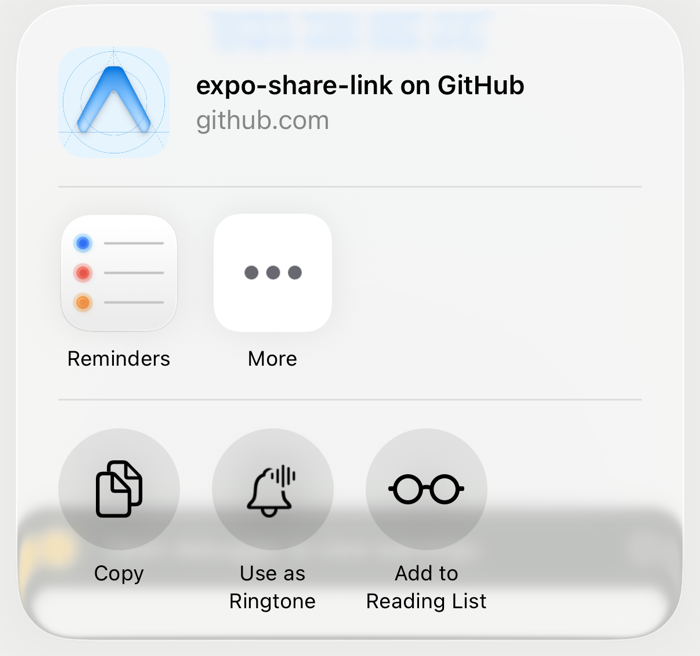
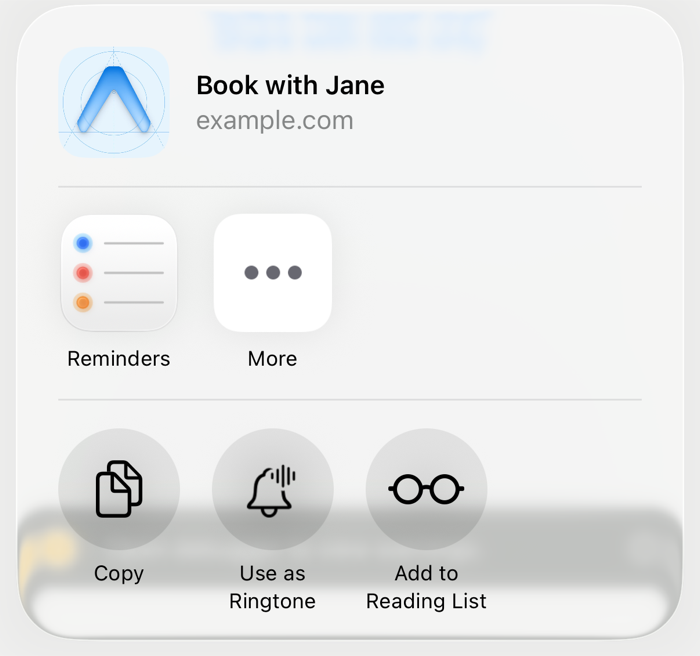
Use a neutral example link in the screenshots

Changed region(s): [[0.27, 0.0915, 0.75, 0.2134]]

diff --git a/example/App.tsx b/example/App.tsx
@@ -2,7 +2,7 @@ import { isAvailable, shareLink, type ShareLinkResult } from 'expo-share-link';
 import { useState } from 'react';
 import { Button, SafeAreaView, StyleSheet, Text, View } from 'react-native';
 
-const URL = 'https://github.com/onoja123/expo-share-link';
+const URL = 'https://example.com/book/jane';
 
 export default function App() {
   const [result, setResult] = useState<ShareLinkResult | null>(null);
@@ -14,9 +14,9 @@ export default function App() {
       setResult(
         await shareLink({
           url: URL,
-          title: 'expo-share-link on GitHub',
+          title: 'Book with Jane',
           icon: withIcon ? require('./assets/icon.png') : undefined,
-          dialogTitle: 'Share this repo',
+          dialogTitle: 'Share booking page',
         })
       );
     } catch (e) {

diff --git a/README.md b/README.md
@@ -6,9 +6,9 @@ Share a link from an Expo app with a **title and icon in the share sheet header*
 [![CI](https://github.com/onoja123/expo-share-link/actions/workflows/ci.yml/badge.svg)](https://github.com/onoja123/expo-share-link/actions/workflows/ci.yml)
 [![license](https://img.shields.io/npm/l/expo-share-link.svg)](./LICENSE)
 
-| Before, `Share.share({ message: url, url })`                                              | After, `shareLink({ url, title, icon })`                                                             |
-| ----------------------------------------------------------------------------------------- | ---------------------------------------------------------------------------------------------------- |
-| ![iOS share sheet header reading "2 Links" with a generic site icon](docs/before-ios.png) | ![iOS share sheet header showing the app icon and a custom title above the link](docs/after-ios.png) |
+| Before, `Share.share({ message: url, url })`                                                 | After, `shareLink({ url, title, icon })`                                                             |
+| -------------------------------------------------------------------------------------------- | ---------------------------------------------------------------------------------------------------- |
+| ![iOS share sheet header reading "2 Links" with a generic compass icon](docs/before-ios.png) | ![iOS share sheet header showing the app icon and a custom title above the link](docs/after-ios.png) |
 
 Both screenshots come from the example app in this repo.
 
